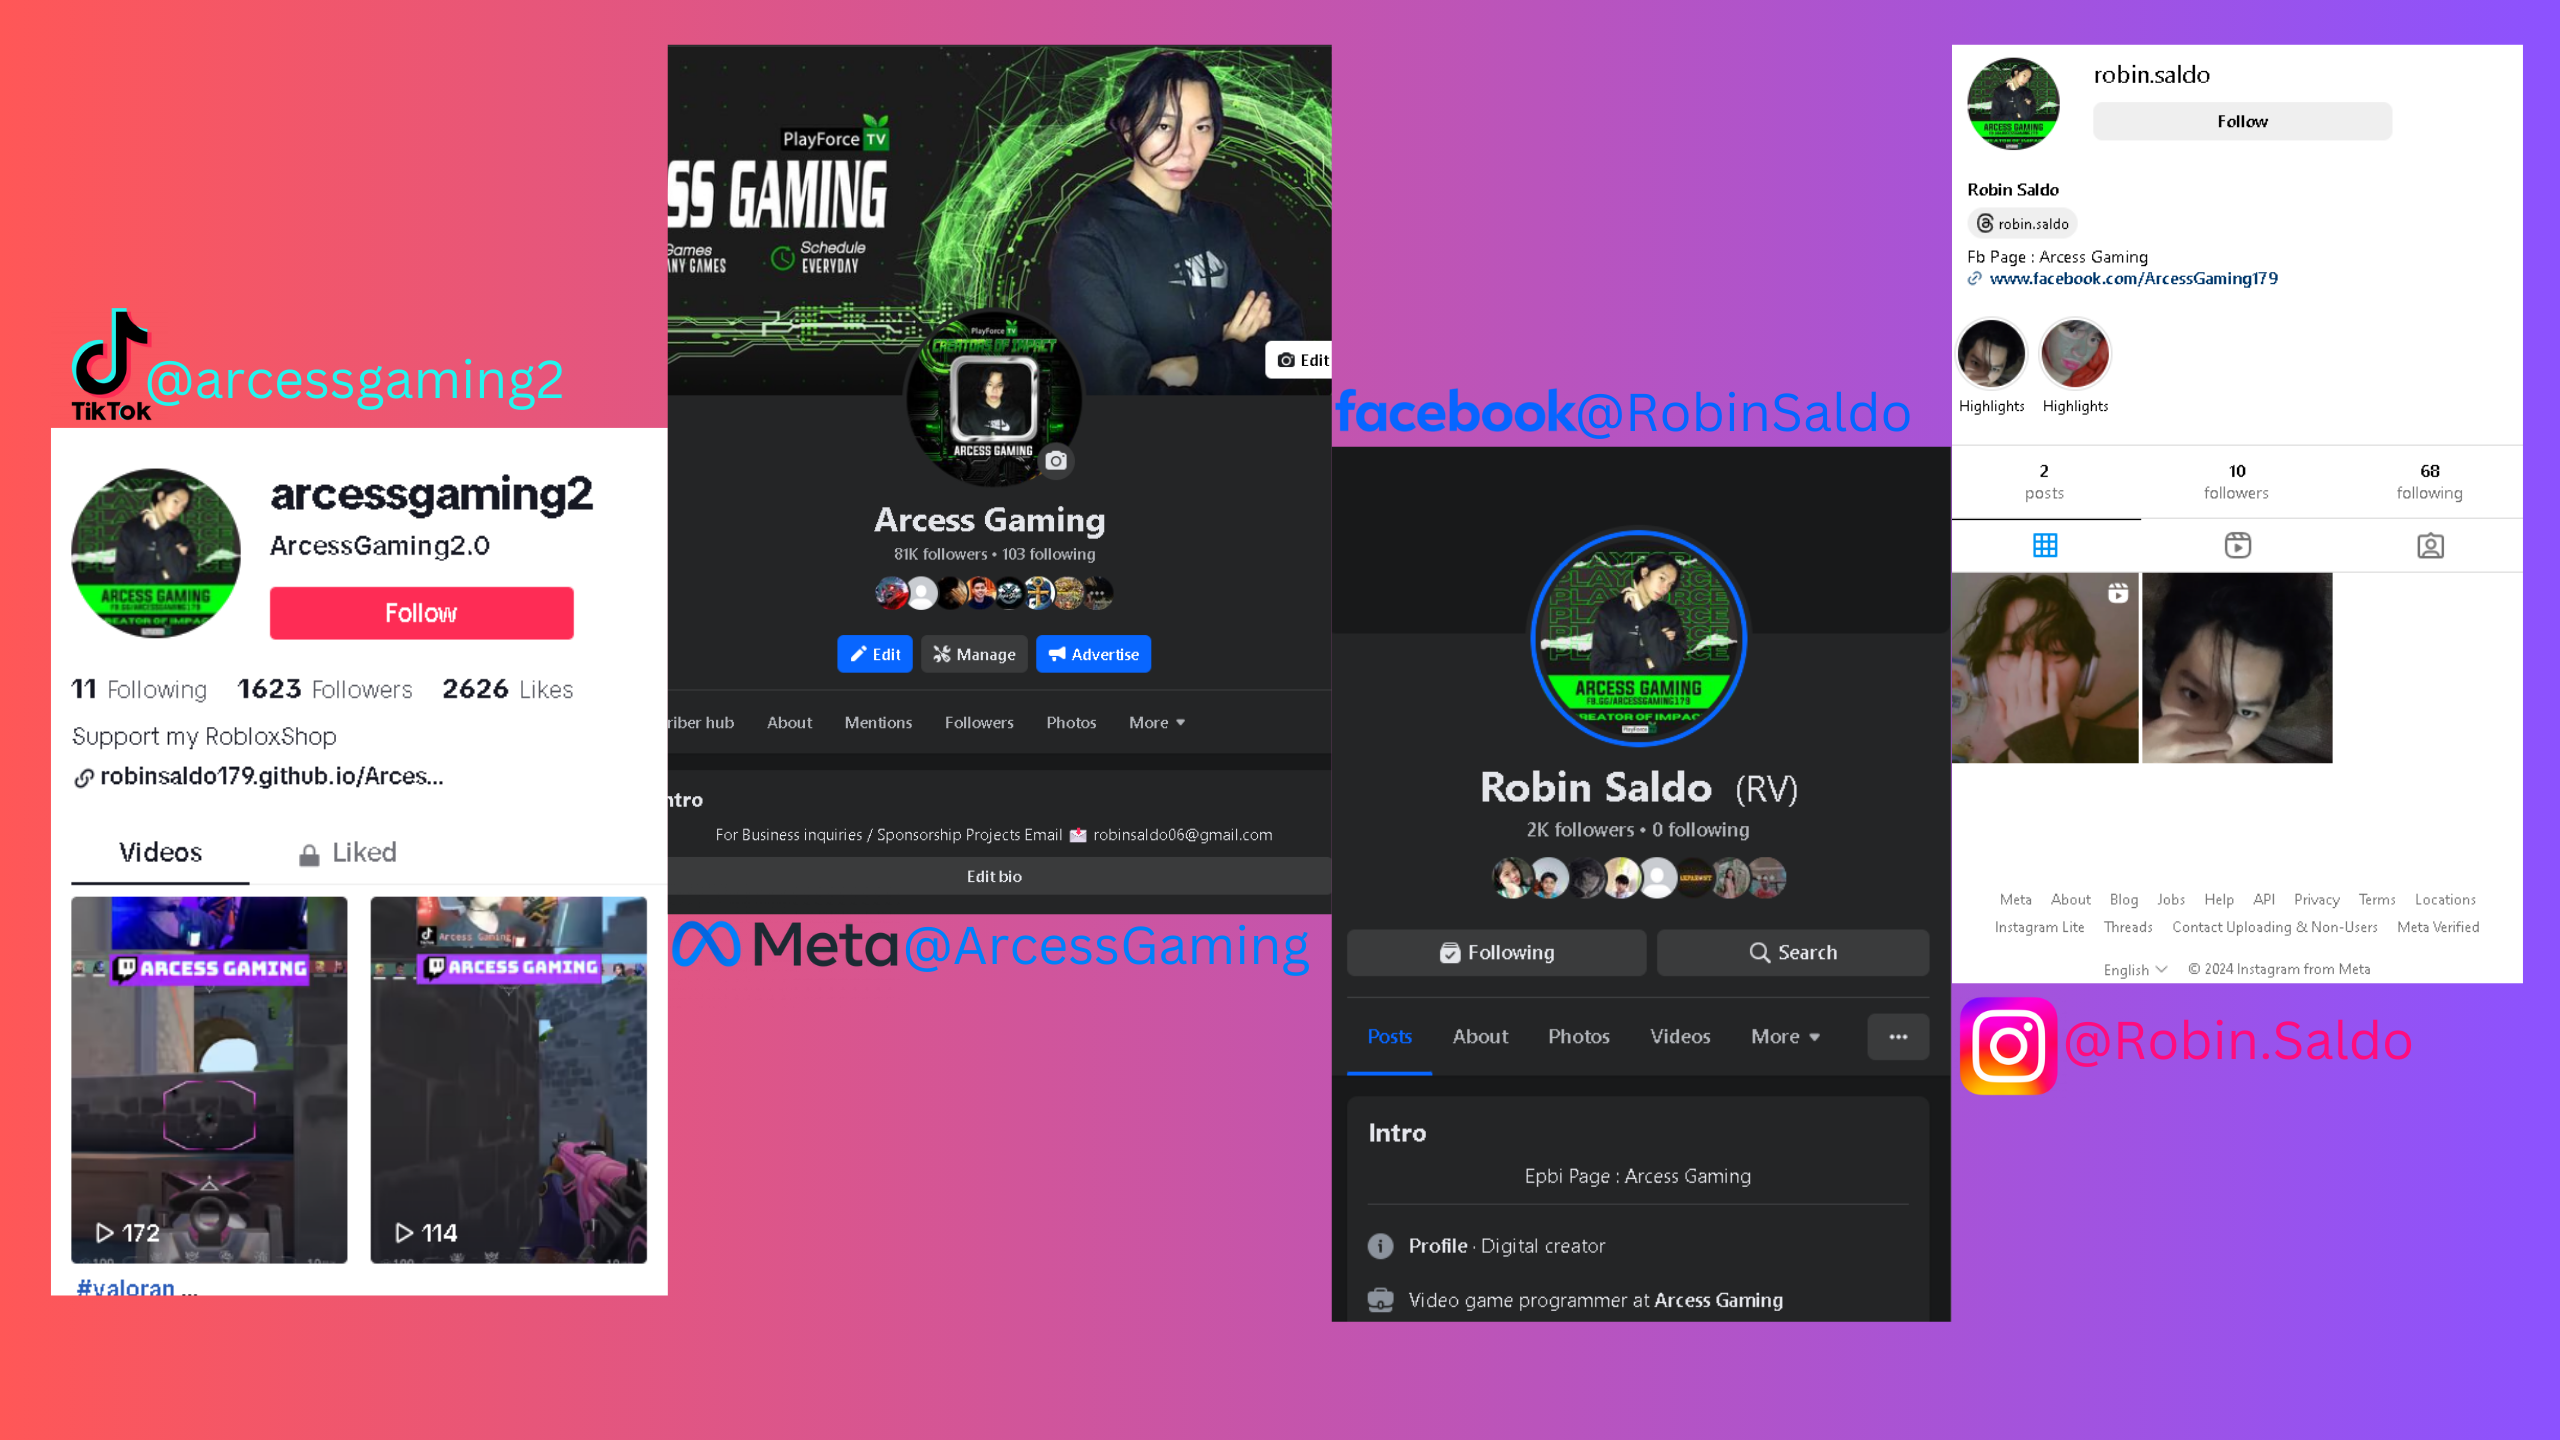
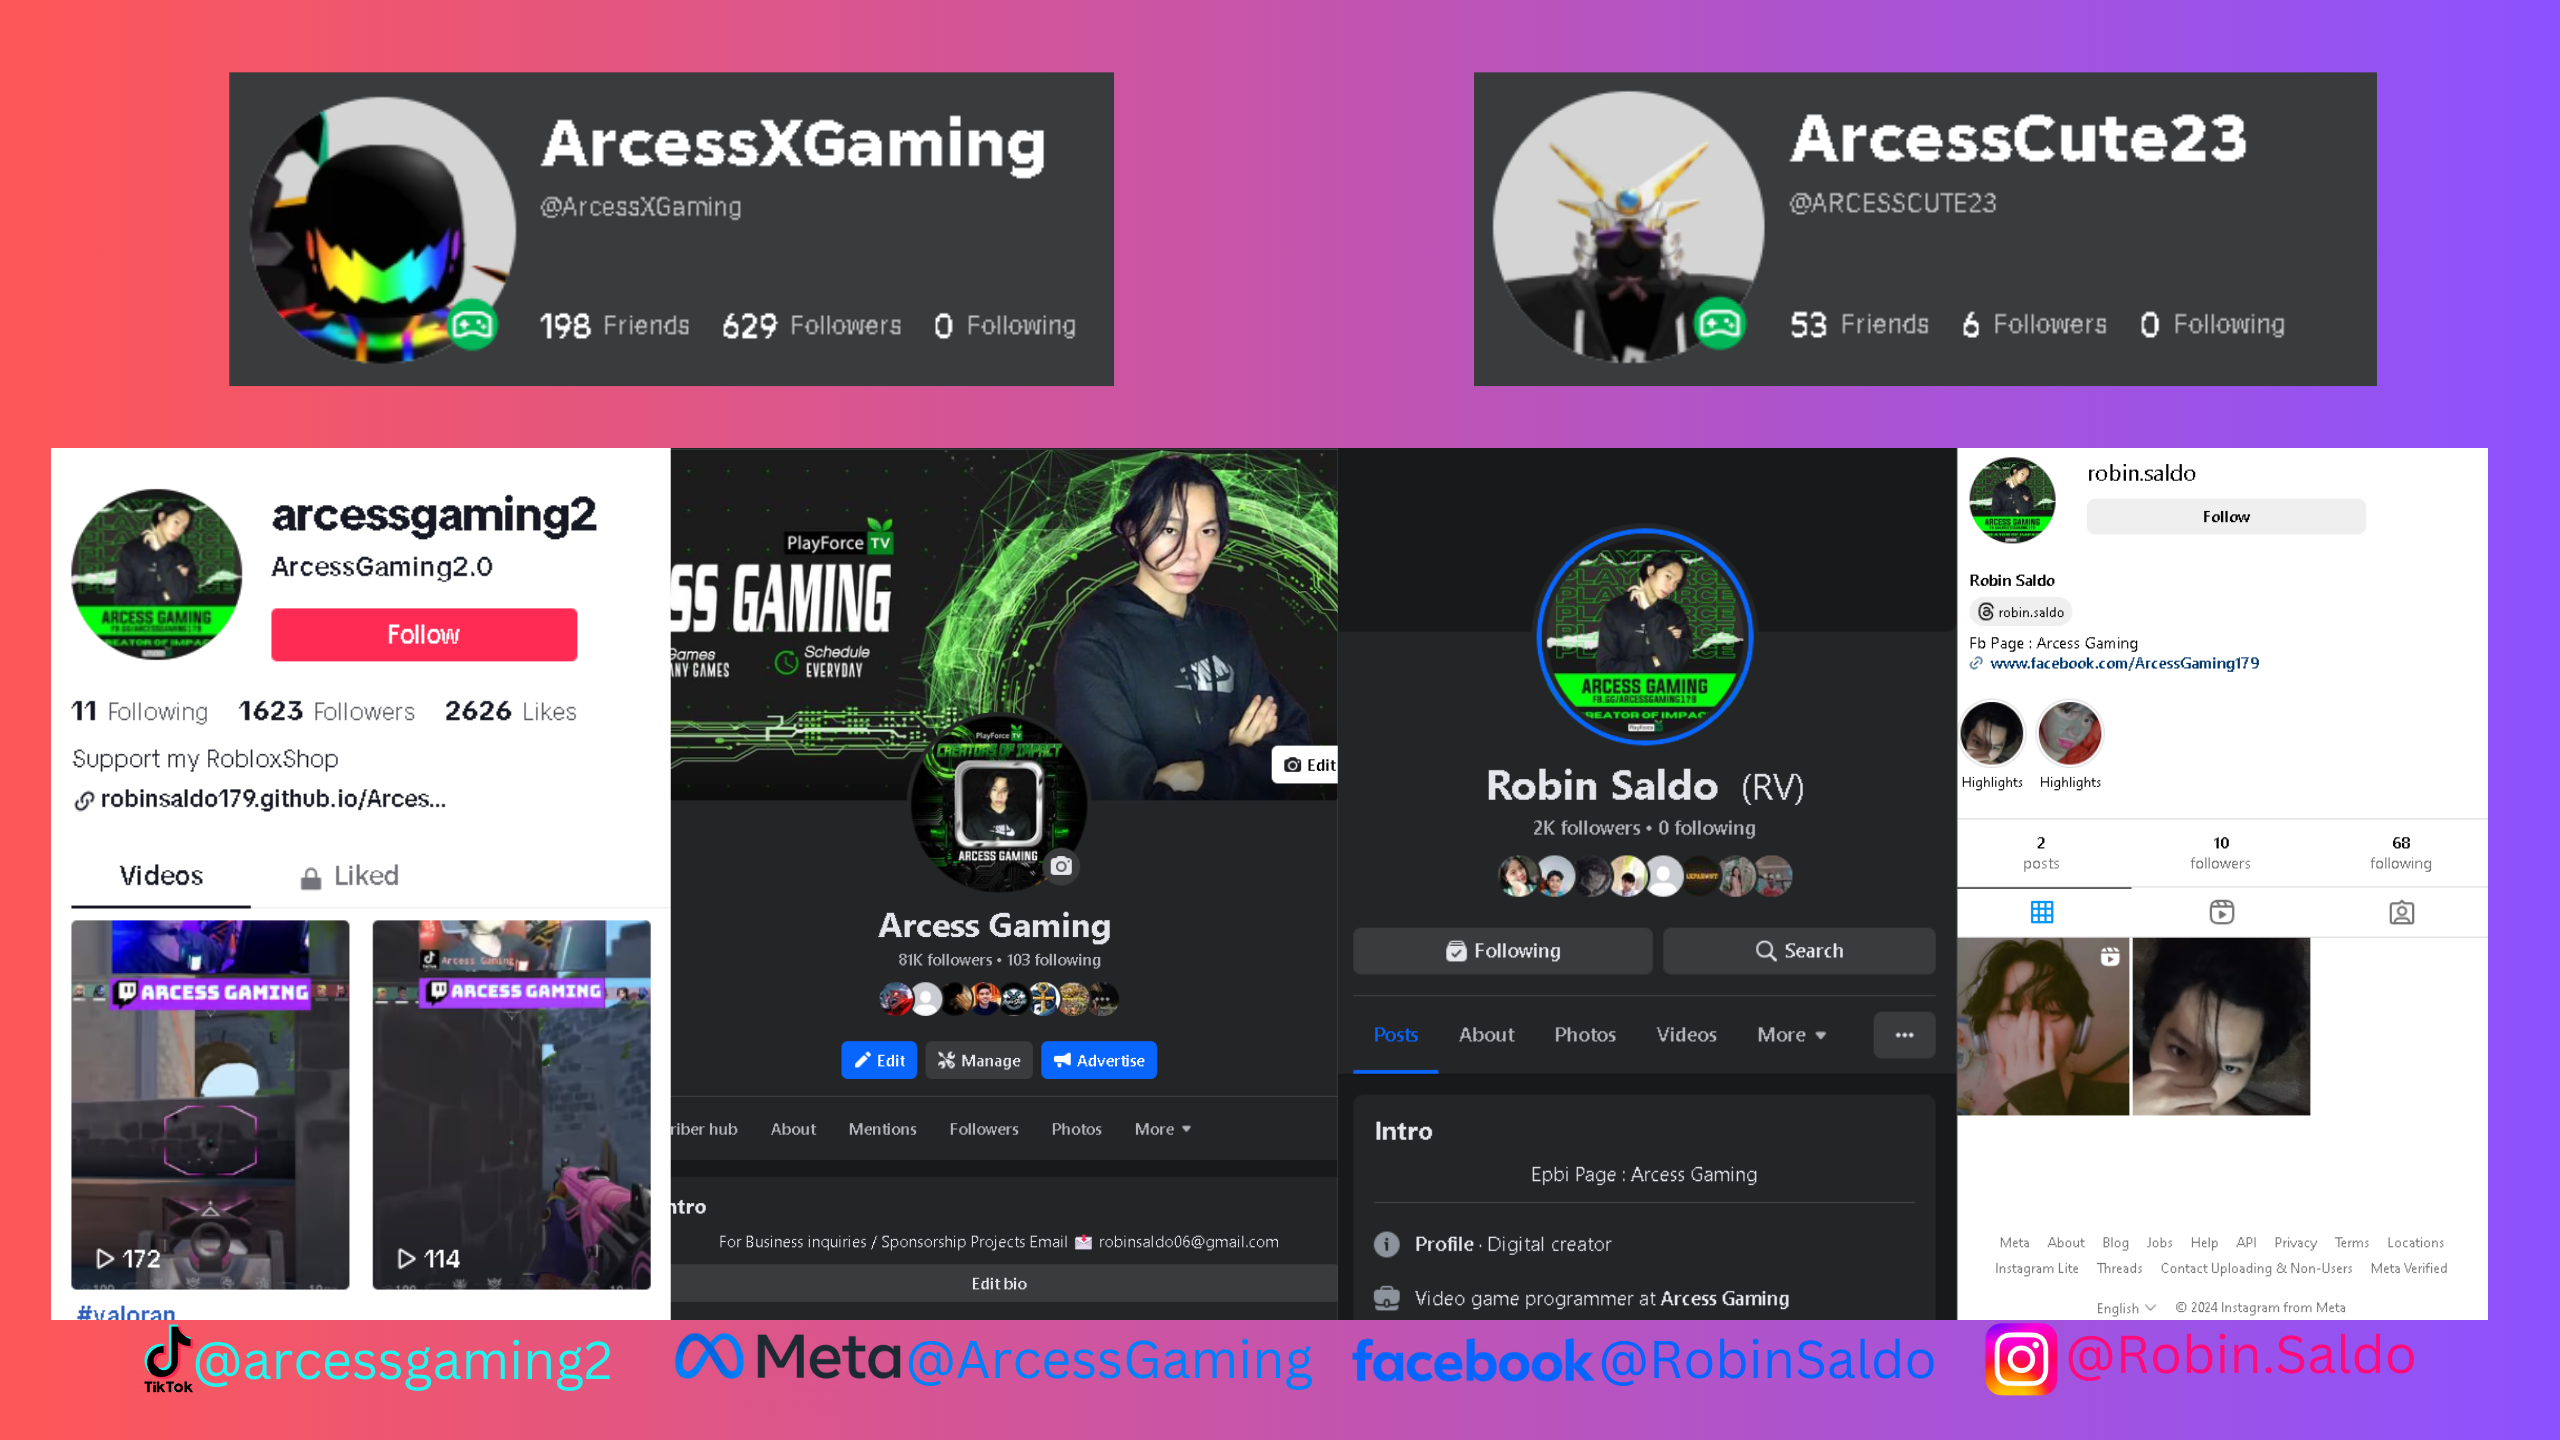
File Upload

diff --git a/contact.html b/contact.html
@@ -97,7 +97,7 @@
                 <div class="col-md-12">
                     <div class="titlepage">
                         <h2>Contact Us</h2>
-                        <h3> If you buy, please contact me through all my social media accounts. Feel free to add me!</h3>
+                        <h3> If you buy, please contact me through all my social media And Roblox accounts. Feel free to add me!</h3>
                     </div>
                 </div>
             </div>
